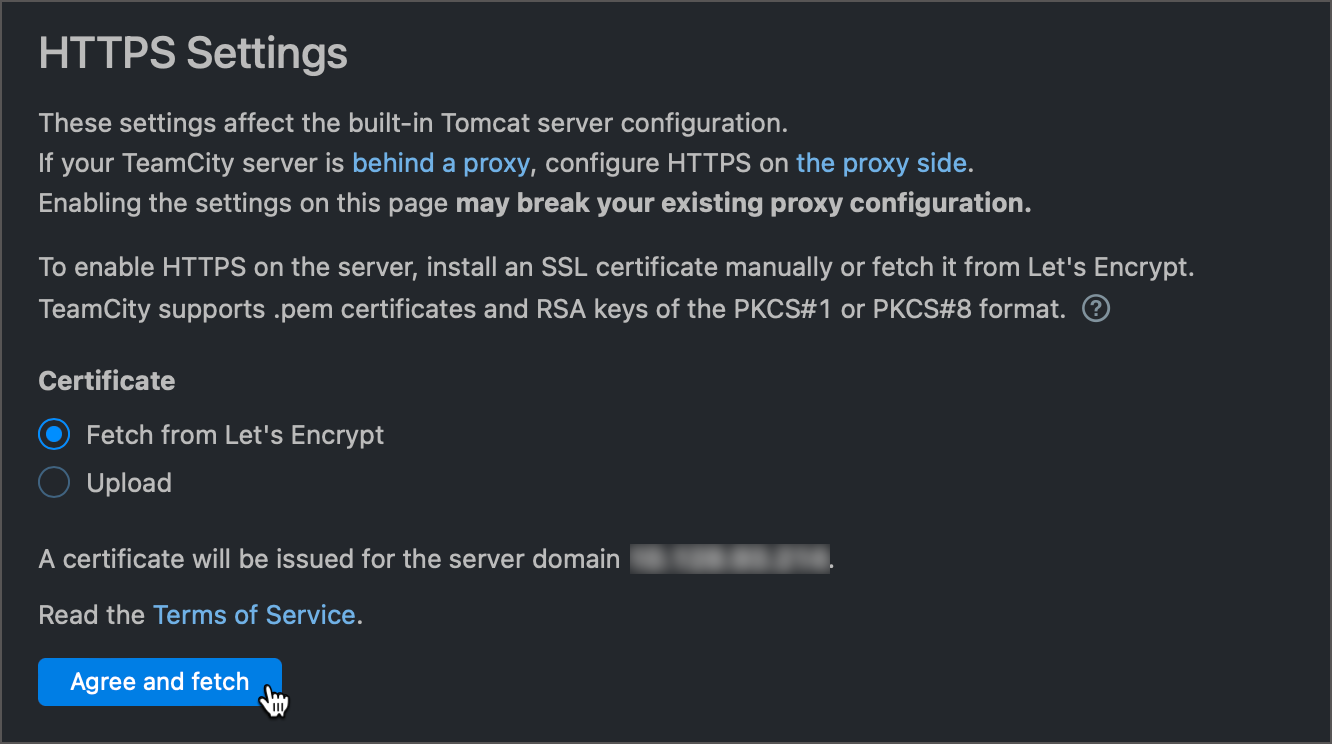
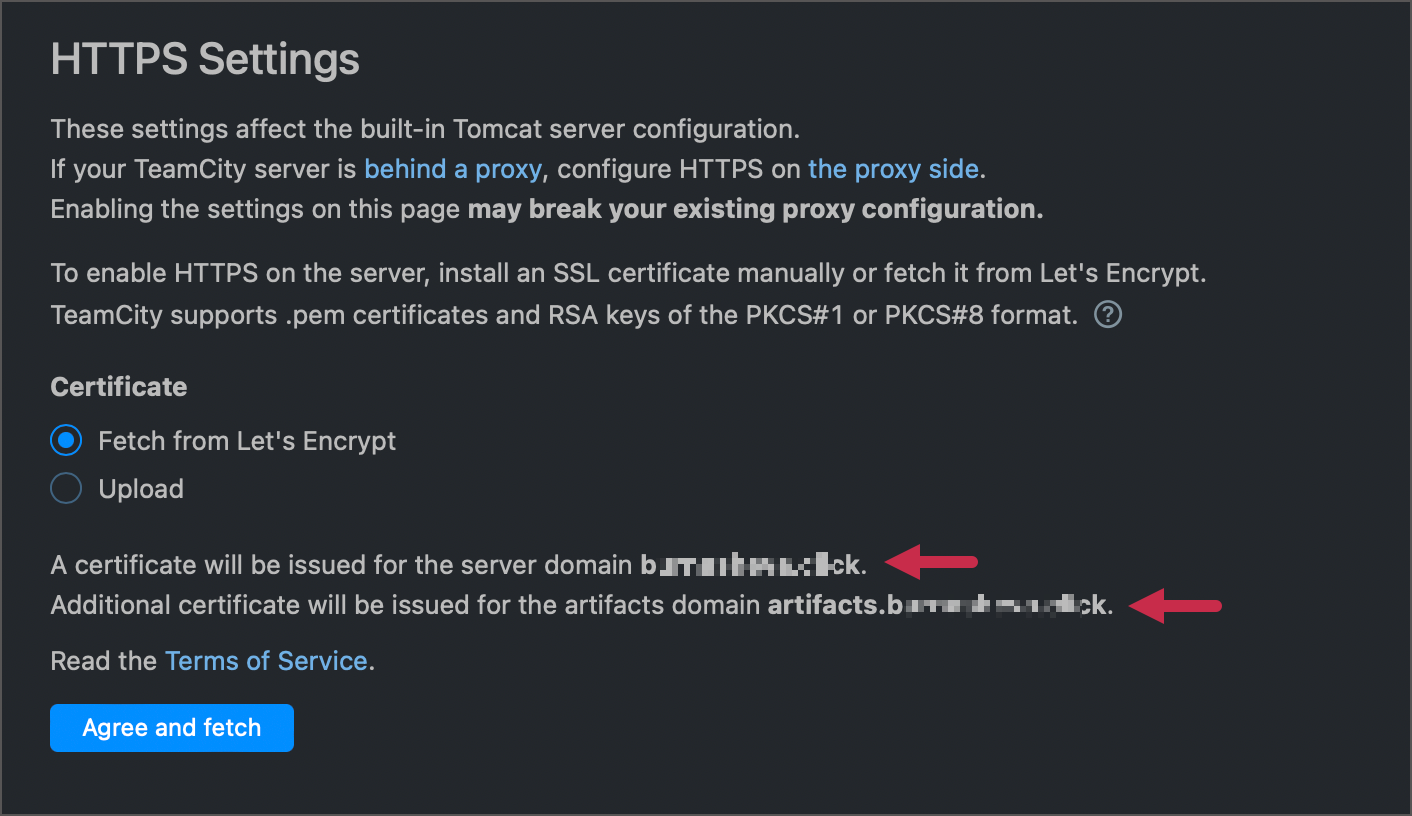
TW-79570 Updates

Changed region(s): [[0.0308, 0.0309, 0.8926, 0.4328], [0.0308, 0.4637, 0.8619, 0.7728], [0.0308, 0.8038, 0.277, 0.9583]]

diff --git a/topics/https-server-settings.md b/topics/https-server-settings.md
@@ -7,8 +7,8 @@ To configure secure HTTPS access, you need a certificate. You can obtain and loa
 
 > HTTPS settings made via TeamCity UI affect the built-in Tomcat server configuration.
 >
-> If your TeamCity server is [behind a proxy](configuring-proxy-server.md#Set+Up+TeamCity+Server+Behind+Proxy), configure HTTPS on the proxy side.
-Modifying the settings via a web UI may break your existing proxy configuration.
+> If your TeamCity server is [behind a proxy](configuring-proxy-server.md#Set+Up+TeamCity+Server+Behind+Proxy) (for example, in [multi-node setups](multinode-setup.md)), configure HTTPS on the proxy side.
+Modifying the settings via a web UI may break your existing proxy configuration. Refer to your proxy server documentation to learn how to set up HTTPS certificates.
 >
 {type="warning"}
 
@@ -23,13 +23,13 @@ Modifying the settings via a web UI may break your existing proxy configuration.
 
 Refer to this article to learn how Let's Encrypt validates your domain ownership and issues certificates: [How it Works](https://letsencrypt.org/how-it-works/).
 
-> This option is not available for [multinode setups](multinode-setup.md).
+> This option is not available for [multinode setups](multinode-setup.md). Configure certificates on the proxy side instead. Refer to your proxy server documentation for more information.
 > 
 {type="note"}
 
 ### Technical Information
 
-*Certificate type:*&emsp;Multi-Domain SAN certificate<br/>
+*Certificate type:*&emsp;Single- or Multi-Domain SAN certificate<br/>
 *Certificate shelf life:*&emsp;90 days<br/>
 *Automatic renewal:*&emsp;30 days before expiration<br/>
 *Challenge type:*&emsp;[HTTP-01](https://letsencrypt.org/docs/challenge-types/)
@@ -43,16 +43,30 @@ Refer to this article to learn how Let's Encrypt validates your domain ownership
     <img src="dk-https-letsencrypt.png" width="706" alt="Obtain certificate via Lets Encrypt"/>
     
     After CA verifies your identity, valid certificates will be issued and installed automatically.
+    
+    <img src="dk-https-letsencrypt2.png" width="706" alt="Installed Let's Encrypt Certificate"/>
 
 3. Choose the required [redirect mode](#HTTPS+Redirect+Modes).
+4. Update your [artifacts isolation](teamcity-configuration-and-maintenance.md#artifacts-domain-isolation) URL from "http://..." to "https://..." in TeamCity settings. It is also recommended to manually update the [server URL](configuring-server-url.md) as well.
 
-### Troubleshooting
+### Port Requirements and Manual Fetch
 
-If Let's Encrypt cannot verify the domain ownership and issue a certificate (for example, if a server has no access to the domain root or the 80 port used to serve challenge files is closed), TeamCity puts the process on hold and displays a text file content and a path.
+Let's Encrypt expects to locate challenge files at `http://<your_domain>:80/.well-known/acme-challenge`. To serve these files, TeamCity needs access to port 80.
+
+* If your server runs on a different port (for instance, 8111), TeamCity attempts to open a custom socket on port 80. This socket closes after the challenge verification is over (regardless of the result).
+* If your server runs on port 80, TeamCity attempts to serve challenge files directly. You do not need to stop or reconfigure your TeamCity server.
+
+Since TeamCity serves challenges and opens sockets under the same user who launched the server, both approaches may fail if this user has [no access to port 80](https://www.w3.org/Daemon/User/Installation/PrivilegedPorts.html).
+
+If Let's Encrypt cannot verify the domain ownership and issue a certificate, TeamCity puts the process on hold and displays text file content and a path.
 
 <img src="dk-letsencrypt-noaccess.png" width="706" alt="Certificate instructions for system administrators"/>
 
-A domain administrator/owner should manually place this file under the given location and ensure it is reachable over the internet. Then you can return to the **Administration | HTTPS Settings** page and click the **Proceed** button.
+To issue the certificate, try the following:
+
+* Click **Cancel**, ensure port 80 is available and accessible by the current user, then retry the [automatic fetch](#Automatic+Fetch).
+
+* Do not click **Cancel** and manually place the required challenge files under the given location. When it is done, return to the **Administration | HTTPS Settings** page and click **Proceed**.
 
 ### Automatic Certificate Renewal
 
@@ -63,7 +77,7 @@ teamcity.https.close.expiration.threshold.minutes=60
 teamcity.https.close.expiration.threshold.days=40
 ```
 
-If TeamCity is unable to re-issue a certificate, a corresponding message is shown in the [health report](server-health.md).
+If TeamCity is unable to re-issue a certificate, a corresponding message is shown in the [health report](server-health.md). Renew a certificate manually if TeamCity is unable to do this in automatic mode.
 
 
 
@@ -113,9 +127,9 @@ Once you obtain a certificate and a private key:
 {type="note"}
 
 
-### Configure HTTPS Settings via a Script
+### Upload Certificates via a Script
 
-You can also automate configuring these HTTPS settings using a script, which should contain the following:
+You can also automate configuring HTTPS settings using a script, which should contain the following:
 
 ```Shell
 curl '<TeamCity_URL>/app/https/settings/uploadCertificate' -X POST -H 'Accept: application/json' -H 'Authorization: Bearer TOKEN' -F certificate=@PATH_CERT -F key=@PATH_KEY -F port=XXXX'`
@@ -123,6 +137,9 @@ curl '<TeamCity_URL>/app/https/settings/uploadCertificate' -X POST -H 'Accept: a
 
 The `TOKEN` here is your [personal token](configuring-your-user-profile.md#Managing+Access+Tokens) with the `Change HTTPS settings` permission.
 
+## Setting Up HTTPS in Docker Containers
+
+If your TeamCity server runs in a [Linux Docker container](https://hub.docker.com/r/jetbrains/teamcity-server), add `-p 443:8443` parameter to the `docker run` command. This parameter allows TeamCity to redirect requests from port 443 (a privileged port unavailable to non-root users) to port 8443.
 
 ## HTTPS Redirect Modes
 
